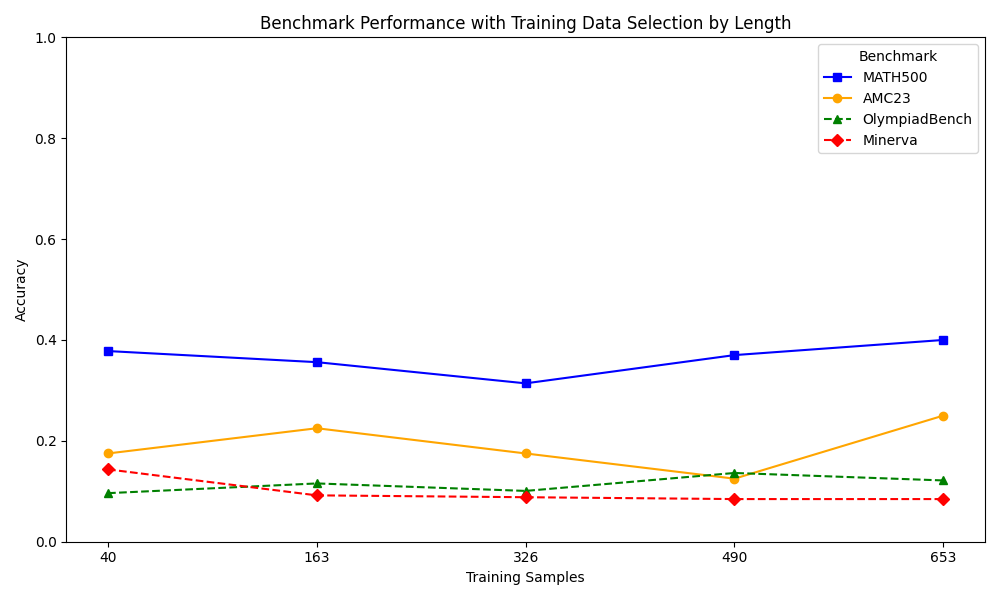
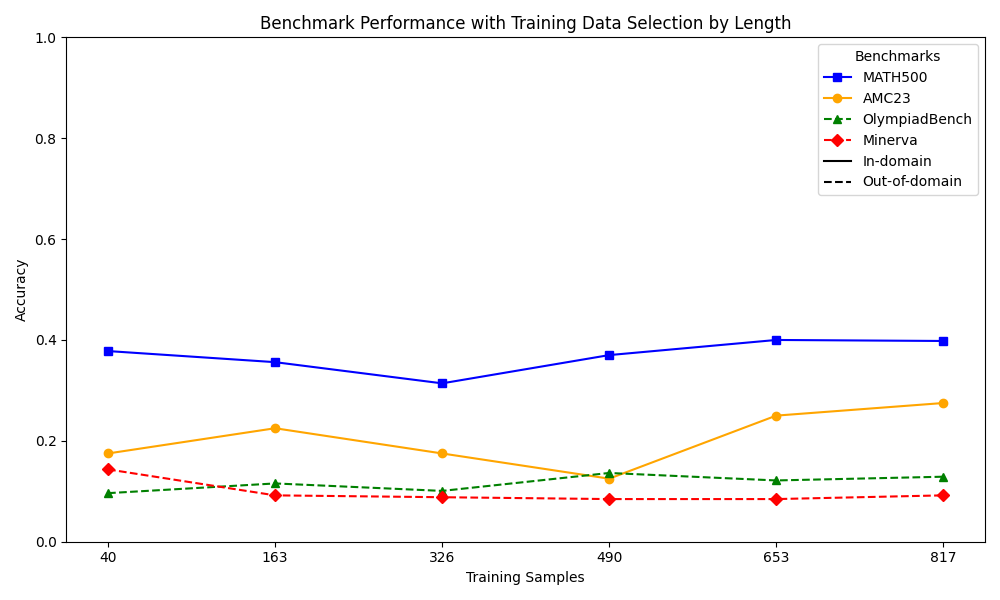
Add legend entries for in vs out of domain and make all graphs have 817 sample results

diff --git a/plot_results.py b/plot_results.py
@@ -1,6 +1,7 @@
 import json
 import os
 import matplotlib.pyplot as plt
+from matplotlib.lines import Line2D
 import numpy as np
 import math
 
@@ -41,13 +42,30 @@ def plot_results(acc_results, plot_title, benchmarks, benchmark_plot_styles, sel
         marker, linestyle, color = benchmark_plot_styles[benchmark]
         axes.plot(x, [acc_results[trial_name][i] for trial_name in trial_names], marker=marker, label=benchmark, linestyle=linestyle, color=color)
 
+    for i in range(num_benchmarks):
+        total = 0
+        benchmark = benchmarks[i]
+        for trial_name in trial_names:
+            total += acc_results[trial_name][i]
+        avg_acc = total / len(trial_names)
+        print(selection_method, " benchmark: ", benchmark, " avg acc: ", avg_acc)
+
+    # Add legend entries for solid vs dashed line meaning
+    custom_lines = [ 
+        Line2D([0], [0], color='black', linestyle='-'), 
+        Line2D([0], [0], color='black', linestyle='--')
+    ]
+    handles, labels = axes.get_legend_handles_labels()
+    handles += custom_lines
+    labels += ["In-domain", "Out-of-domain"]
+
     axes.set_ylabel("Accuracy")
     axes.set_xlabel("Training Samples")
     axes.set_title(plot_title)
     axes.set_xticks(x)
     axes.set_xticklabels(trial_names) # show trial file names for each bar group
     axes.set_ylim(0, 1)
-    axes.legend(title="Benchmark") # shows which benchmark each bar represents
+    axes.legend(handles=handles, labels=labels, title="Benchmarks")
     plt.tight_layout() # makes the plot fill the window
     
     save_path = os.path.join("result_graphs", selection_method)
